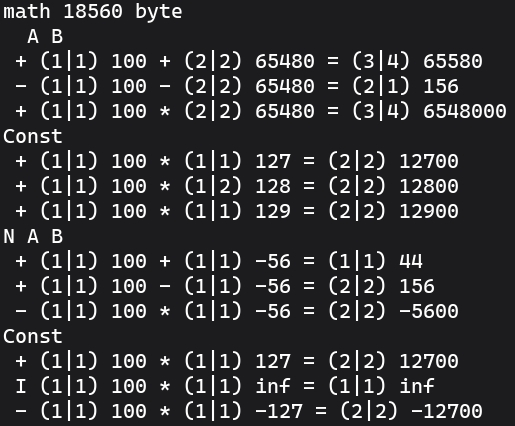
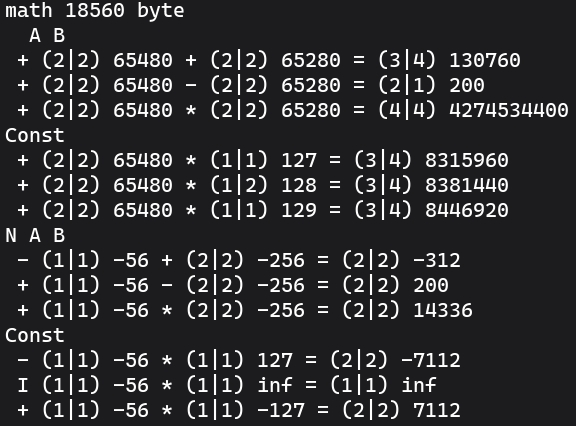
v13.6

Changed region(s): [[0.0, 0.0, 0.9942, 1.0]]

diff --git a/math.c b/math.c
@@ -27,7 +27,7 @@ anu FMOV(anu l, an r, an a) { Mat.F = 0; Mat.C = 0;
   Mat.y = *(Mat.r = a + l); Mat.N = (Mat.Nim && (Mat.y & 128)) ? 255:0; Mat.z = l;
   if (!Mat.y || (Mat.Nim && Mat.y == 128)) { Mat.a = a; while(l && !*Mat.a++) { l--; }
     if ((Mat.F = l ? 0: Mat.y ? 2:1)) { *r = Mat.y; return 0; } l = Mat.z; }
-  while(((Mat.y = *Mat.r--) == Mat.N) && (Mat.Nim ? !((*Mat.r ^ Mat.N) & 128):1) && l) { l--; } //Mat.Nim ? !((*Mat.r ^ Mat.N) & 128):1
+  while(((Mat.y = *Mat.r--) == Mat.N) && (Mat.Nim ? !((*Mat.r ^ Mat.N) & 128):1) && l) { l--; }
   Mat.z = l; if (Mat.y != 128) Mat.y = 0; else { while(!*Mat.r-- && l) { l--; }
     Mat.y = (Mat.C = (Mat.z == 255)) ? 0:l ? 0:1;
     if ((Mat.F = (Mat.C && !l) << 1)) { *r = 128; return 0; } l = Mat.z; }
@@ -43,11 +43,14 @@ anu FVI(anu f, an r, anu l, an c) { if (l--) { if (f) { FSWAP(l, r, c); return F
 void FADD(an r, an a, anu l, an b) { Mat.N = l; Mat.r = r; Mat.a = a; Mat.b = b; Mat.lb = Mat.N;
   Mat.x = *(Mat.e = Mat.a + Mat.l); Mat.na = (Mat.Nim && (Mat.x & 128)) ? 255:0; Mat.F = Mat.l;
   Mat.y = *(Mat.d = Mat.b + Mat.N); Mat.nb = (Mat.Nim && (Mat.y & 128)) ? 255:0; Mat.C = (Mat.C != 0);
-  while(Mat.F && *Mat.e-- == Mat.na) { Mat.F--; }  while(Mat.N && *Mat.d-- == Mat.nb) { Mat.N--; }
+  while(Mat.F && *Mat.e-- == Mat.na && (Mat.Nim ? !((*Mat.e ^ Mat.na) & 128):1)) { Mat.F--; }  
+  while(Mat.N && *Mat.d-- == Mat.nb && (Mat.Nim ? !((*Mat.d ^ Mat.nb) & 128):1)) { Mat.N--; }
+
   if (Mat.Nim) { if ((Mat.x == 128 && Mat.F == Mat.l) || (Mat.y == 128 && Mat.N == Mat.lb)) {
       Mat.u = Mat.F; Mat.v = Mat.N; while(Mat.u-- && !*Mat.e--) { } while(Mat.v-- && !*Mat.d--) { } 
       Mat.u++; Mat.v++; if (!(Mat.u && Mat.v)) { Mat.F = 2; Mat.N = 255; *Mat.r = 128; Mat.l = 0;
         return; } } } Mat.l = (Mat.F > Mat.N) ? Mat.F:Mat.N; Mat.v = (Mat.F > Mat.N) ? Mat.N:Mat.F;
+
   Mat.u = Mat.v++; Mat.F -= Mat.u; Mat.N -= Mat.u; Mat.d = Mat.b;
   do { Mat.x = *Mat.a++; Mat.y = (*Mat.r++ = Mat.x + *Mat.d++ + Mat.C);
     Mat.C = (Mat.x > Mat.y) || (Mat.C && Mat.y == Mat.x); } while(--Mat.v);
@@ -60,14 +63,18 @@ void FADD(an r, an a, anu l, an b) { Mat.N = l; Mat.r = r; Mat.a = a; Mat.b = b;
   if (Mat.Nim) Mat.C = ((!(Mat.na ^ Mat.nb) && (Mat.na ^ Mat.N)) || (!Mat.v && Mat.y == 128));
   if (Mat.C && Mat.l != 255) { Mat.l++; Mat.v |= Mat.y; *++Mat.r = Mat.Nim ? Mat.N:Mat.C; Mat.C--; }
   Mat.N = (Mat.Nim && (*Mat.r & 128)) ? 255:0; if ((Mat.F = !(Mat.v | *Mat.r))) Mat.l = 0; }
+
 void FSUB(an r, an a, anu l, an b) { Mat.N = l; Mat.r = r; Mat.a = a; Mat.b = b; Mat.lb = Mat.N;
   Mat.x = *(Mat.e = Mat.a + Mat.l); Mat.na = (Mat.Nim && (Mat.x & 128)) ? 255:0; Mat.F = Mat.l;
   Mat.y = *(Mat.d = Mat.b + Mat.N); Mat.nb = (Mat.Nim && (Mat.y & 128)) ? 255:0; Mat.C = (Mat.C != 0);
-  while(Mat.F && *Mat.e-- == Mat.na) { Mat.F--; }  while(Mat.N && *Mat.d-- == Mat.nb) { Mat.N--; }
+  while(Mat.F && *Mat.e-- == Mat.na && (Mat.Nim ? !((*Mat.e ^ Mat.na) & 128):1)) { Mat.F--; }  
+  while(Mat.N && *Mat.d-- == Mat.nb && (Mat.Nim ? !((*Mat.d ^ Mat.nb) & 128):1)) { Mat.N--; }
+
   if (Mat.Nim) { if ((Mat.x == 128 && Mat.F == Mat.l) || (Mat.y == 128 && Mat.N == Mat.lb)) {
       Mat.u = Mat.F; Mat.v = Mat.N; while(Mat.u-- && !*Mat.e--) { } while(Mat.v-- && !*Mat.d--) { } 
       Mat.u++; Mat.v++; if (!(Mat.u && Mat.v)) { Mat.F = 2; Mat.N = 255; *Mat.r = 128; Mat.l = 0;
         return; } } } Mat.l = (Mat.F > Mat.N) ? Mat.F:Mat.N; Mat.v = (Mat.F > Mat.N) ? Mat.N:Mat.F;
+
   Mat.u = Mat.v++; Mat.F -= Mat.u; Mat.N -= Mat.u; Mat.d = Mat.b;
   do { Mat.x = *Mat.a++; Mat.y = (*Mat.r++ = Mat.x - *Mat.d++ - Mat.C);
     Mat.C = (Mat.x < Mat.y) || (Mat.C && Mat.y == Mat.x); } while(--Mat.v);
@@ -85,14 +92,15 @@ void FSUB(an r, an a, anu l, an b) { Mat.N = l; Mat.r = r; Mat.a = a; Mat.b = b;
 void FMUL(an r, an a, anu l, an b) { Mat.N = l; Mat.r = r; Mat.a = a; Mat.b = b; Mat.lb = Mat.N;
   Mat.x = *(Mat.e = Mat.a + Mat.l); Mat.na = (Mat.Nim && (Mat.x & 128)) ? 255:0; Mat.F = Mat.l;
   Mat.y = *(Mat.d = Mat.b + Mat.N); Mat.nb = (Mat.Nim && (Mat.y & 128)) ? 255:0; Mat.C = (Mat.C != 0);
-  while(Mat.F && *Mat.e-- == Mat.na) { Mat.F--; }  while(Mat.N && *Mat.d-- == Mat.nb) { Mat.N--; }
+  while(Mat.F && *Mat.e-- == Mat.na && (Mat.Nim ? !((*Mat.e ^ Mat.na) & 128):1)) { Mat.F--; }  
+  while(Mat.N && *Mat.d-- == Mat.nb && (Mat.Nim ? !((*Mat.d ^ Mat.nb) & 128):1)) { Mat.N--; }
   if (!(Mat.x | Mat.F) || !(Mat.y | Mat.N)) { Mat.F = 1; Mat.N = 0; *r = 0; Mat.l = 0; Mat.C = 0; return; }
   Mat.d = Mat.b; Mat.u = Mat.F; Mat.v = Mat.N; Mat.w = Mat.F; Mat.w += Mat.N; Mat.w++; Mat.z = 0;
   while(!*Mat.a && Mat.F) { Mat.a++; Mat.F--; } while(!*Mat.d && Mat.N) { Mat.d++; Mat.N--; }
   if (Mat.Nim) { if (!Mat.N && Mat.y == 128 && Mat.lb == Mat.u) Mat.z++;
     if (Mat.z || (!Mat.F && Mat.x == 128 && Mat.l == Mat.v)) Mat.z++; } if (Mat.z || (Mat.u > Mat.w)) {
-    Mat.F = 2; Mat.N = 255; *r = 128; Mat.l = 0; Mat.C = !Mat.z; return; } Mat.l = Mat.w;
-  Mat.u = Mat.F - Mat.u; Mat.v = Mat.N - Mat.v; Mat.u += Mat.v; Mat.g = &Mat.Hi.l; Mat.e = &Mat.Lo.l;
+    Mat.F = 2; Mat.N = 255; *r = 128; Mat.l = 0; Mat.C = !Mat.z; return; }
+  Mat.l = Mat.w; Mat.u -= Mat.F; Mat.v -= Mat.N; Mat.u += Mat.v; Mat.g = &Mat.Hi.l; Mat.e = &Mat.Lo.l;
   if (Mat.F > Mat.N) { Mat.v = Mat.F; if (Mat.na) {
       Mat.z = 1; do Mat.z = !(*Mat.g++ = ~*Mat.a++ + Mat.z); while(Mat.v--); }
     else do *Mat.g++ = *Mat.a++; while(Mat.v--);
@@ -113,16 +121,17 @@ void FMUL(an r, an a, anu l, an b) { Mat.N = l; Mat.r = r; Mat.a = a; Mat.b = b;
              *Mat.d++ = (Mat.w << 1) | Mat.z; Mat.z = (Mat.w & 128) ? 1:0; } while(Mat.v--); }
          } while(Mat.u >>= 1); } Mat.g++; } while(Mat.F--);
   Mat.F++; Mat.N = Mat.na ^ Mat.nb; if (Mat.N) { Mat.v = Mat.l; Mat.g = Mat.r; Mat.z = 1;
-    do { Mat.z = !(*Mat.g = ~*Mat.g + Mat.z); Mat.g++; } while(Mat.v--); } Mat.d = Mat.r + Mat.l;
-  while(*Mat.d-- == Mat.N && (Mat.Nim ? !((*Mat.d ^ Mat.N) & 128):1) && Mat.l) { Mat.l--; }
-  if (*++Mat.d != 128) { return; } Mat.e = Mat.d; Mat.v = Mat.l; while(Mat.v && !*--Mat.d) { Mat.v--; }
-  if (Mat.v) { return; } if (Mat.l != 255) { Mat.l++; *++Mat.e = Mat.N; return; }
+    do { Mat.z = !(*Mat.g = ~*Mat.g + Mat.z); Mat.g++; } while(Mat.v--); } Mat.g = Mat.r + Mat.l;
+  while(*Mat.g-- == Mat.N  && Mat.l && (Mat.Nim ? !((*Mat.g ^ Mat.N) & 128):1)) { Mat.l--; }
+  if (*++Mat.g != 128) { return; } Mat.d = Mat.g; Mat.v = Mat.l; while(Mat.v && !*--Mat.g) { Mat.v--; }
+  if (Mat.v) { return; } if (Mat.l != 255) { Mat.l++; *++Mat.d = Mat.N; return; }
   Mat.F = 2; Mat.N = 255; Mat.l = 0; *Mat.r = 128; }
 
 void FDIV(an r, an e, an a, anu l, an b) { Mat.N = l; Mat.r = r; Mat.a = a; Mat.b = b; Mat.lb = Mat.N;
   Mat.x = *(Mat.e = Mat.a + Mat.l); Mat.na = (Mat.Nim && (Mat.x & 128)) ? 255:0; Mat.F = Mat.l;
   Mat.y = *(Mat.d = Mat.b + Mat.N); Mat.nb = (Mat.Nim && (Mat.y & 128)) ? 255:0; Mat.C = (Mat.C != 0);
-  while(Mat.F && *Mat.e-- == Mat.na) { Mat.F--; }  while(Mat.N && *Mat.d-- == Mat.nb) { Mat.N--; }
+  while(Mat.F && *Mat.e-- == Mat.na && (Mat.Nim ? !((*Mat.e ^ Mat.na) & 128):1)) { Mat.F--; }  
+  while(Mat.N && *Mat.d-- == Mat.nb && (Mat.Nim ? !((*Mat.d ^ Mat.nb) & 128):1)) { Mat.N--; }
   (void)e; }
 
 void FADDc(an r, an a, anu l, an c) { if (l--) { FADD(r, a, l, c); return; } Mat.l = FMOV(Mat.l, r, a); }

diff --git a/math.h b/math.h
@@ -22,16 +22,16 @@
 // Mat.le       [0.255] длина остатка e
 // Mat.lb       [0.255] длина последнего обработанного второго операнда
 // Mat.b        адрес последнего обработанного второго операнда
-// Mat.Nim, Mat.V, Mat.R{E{A{B{D}}}} не подлежат изменению внутри функций
+// Mat.Nim, Mat.V, Mat.R{EABDG} не подлежат изменению внутри функций
 typedef uintptr_t As;                           // основа, разрядность процессора
 typedef uint8_t anu;                            // атом, минимальная единица
 typedef anu* an;                                // число, начальный адрес расположения
 typedef struct { anu l, m[254], h; } MatBuf;    // 256 атомов
-typedef struct { anu Nim, V, l, lb, le, C, F, N, Fe, Ne,
-  na, nb, u, v, w, x, y, z; MatBuf Hi, Lo, Sr;  // Fset(Nim{,V{,la{,lb}}}); Flong(la{,lb});
+typedef struct { anu Nim, V, l, lb, le, C, F, N, Fe, Ne,  // Fset({Nim{,V{,la{,lb}}}});
+  na, nb, u, v, w, x, y, z; MatBuf Hi, Lo, Sr;            // Flong({la{,lb}});
   an R, E, A, B, D, G, r, e, a, b, d, g; } Math;// Структура реализации автомата
 void FInit(anu x, anu y, an r, anu c, an a);    // Fini({Nim{,V{,la{,lb}}}}); Nim=V=l=lb..Ne=0
-void FAddr(anu y, As* r, anu c, As* a);         // Faddr({(As)r{,(As)e{,(As)a{,(As)b{,(As)d}}}}});
+void FAddr(anu y, As* r, anu c, As* a);         // Faddr({(As)r{,(As)e{,(As)a{,(As)b}}}});
 void FSWAP(anu l, an r, an a);                  // Зеркалирование атомов длиной l относительно центра
 void FNEG(anu l, an r);                         // Дополнительный код числа, инверсия плюс один
 void FNEG2(anu l, an r, an a);                  // Копирование числа в дополнительный код

diff --git a/main.c b/main.c
@@ -28,5 +28,5 @@ void Const(void) { anu l, i = 2; printf("Const\n"); Show('c'); Mat.D = Mat.B;
 void Test(void) { printf("%c A B\n", Mat.Nim ? 'N':' '); Show('+'); Show('-'); Show('*'); /*Show('/');*/Const(); }
 
 int main(void) { anu a[m], b[m], e[m], r[m+m]; Faddr((As)r, (As)e, (As)a, (As)b);
-  Fini(); la = Fbvi(Mat.A, 100); lb = Fvi(Mat.B, 200,255); Test();
+  Fini(); la = Fbvi(Mat.A, 255,200); lb = Fvi(Mat.B, 0,255); Test();
   Fset(1); la = Fmov(la, Mat.A); lb = Fmov(lb, Mat.B); Test(); return 0; }
